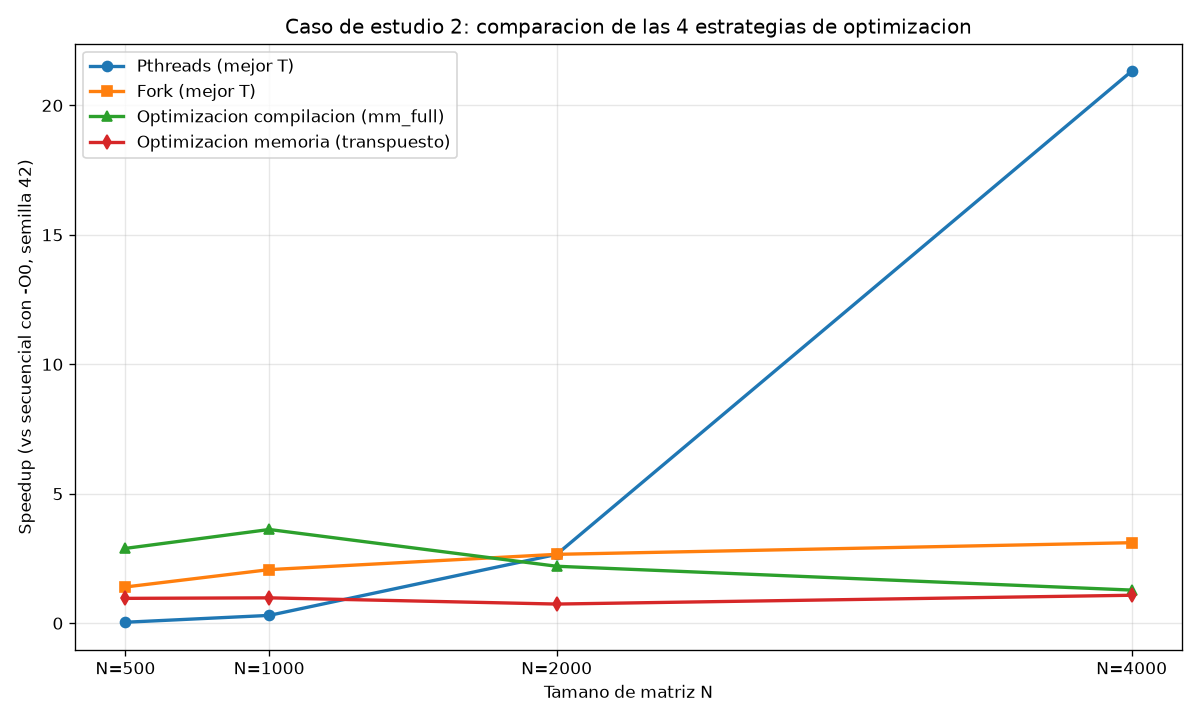
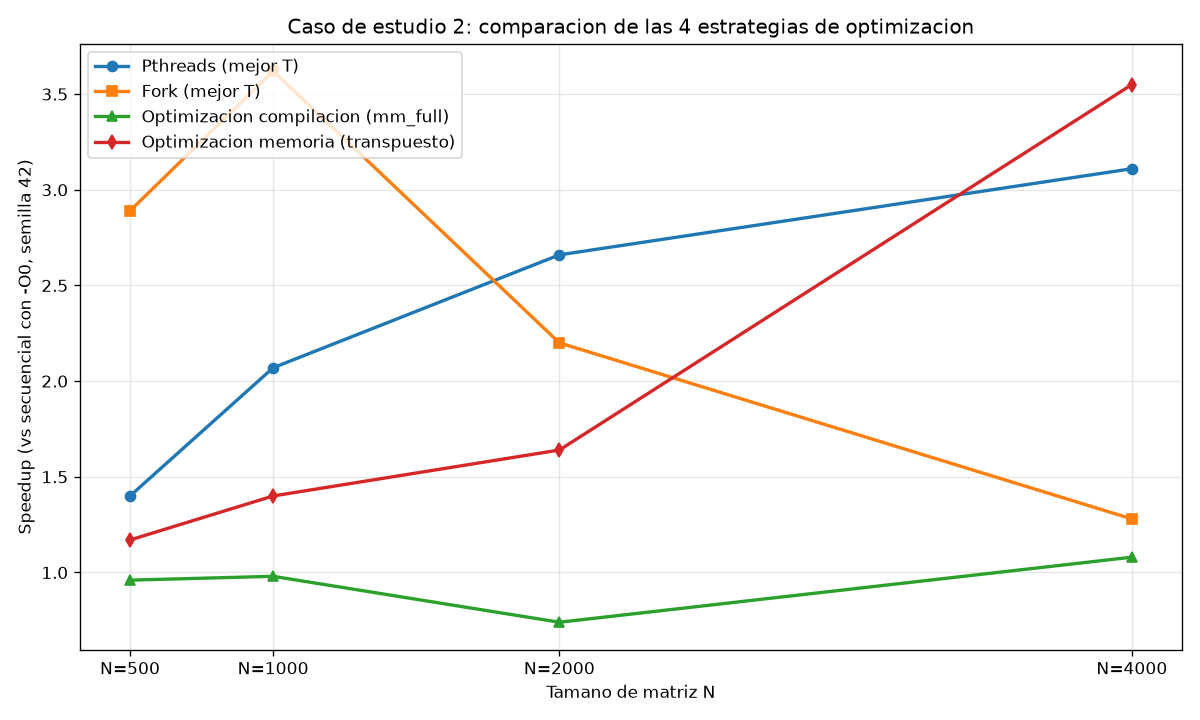
fix(plot_caso2): correct column indices for speedup data

diff --git a/experiments/plot_caso2.py b/experiments/plot_caso2.py
@@ -212,10 +212,12 @@ for row in filas[1:]:  # saltar header
     parts = row.split(',')
     n = int(parts[0])
     ns_plot.append(n)
-    su_pth.append(float(parts[5]))
-    su_fork.append(float(parts[6]))
-    su_full.append(float(parts[7]))
-    su_mem.append(float(parts[8]))
+    # El header es: N,T_seq,T_pth,T_fork,T_full,T_mem,speedup_pth,speedup_fork,speedup_full,speedup_mem
+    # indices:       0  1     2      3      4      5     6            7            8            9
+    su_pth.append(float(parts[6]))
+    su_fork.append(float(parts[7]))
+    su_full.append(float(parts[8]))
+    su_mem.append(float(parts[9]))
 
 ax.plot(ns_plot, su_pth, 'o-', label='Pthreads (mejor T)', linewidth=2)
 ax.plot(ns_plot, su_fork, 's-', label='Fork (mejor T)', linewidth=2)
